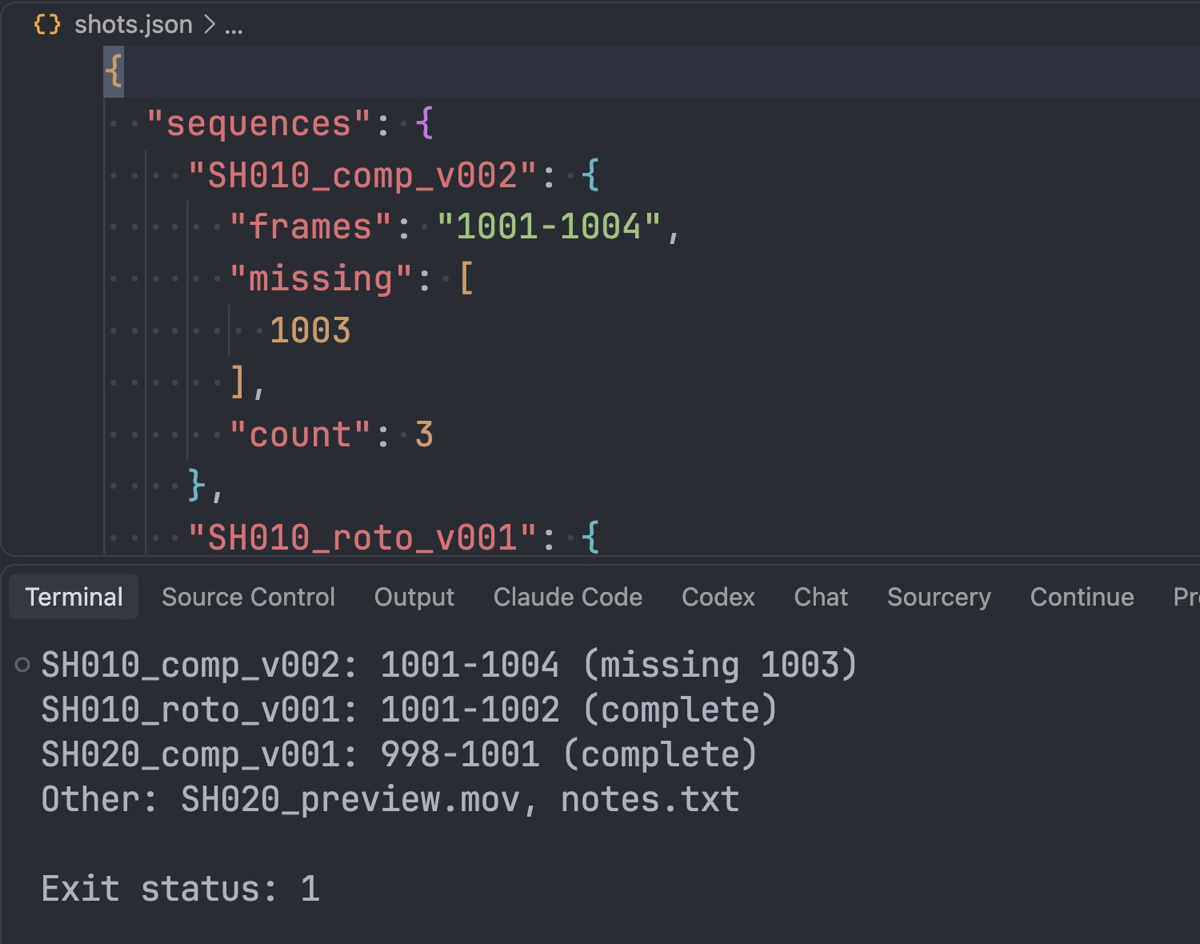
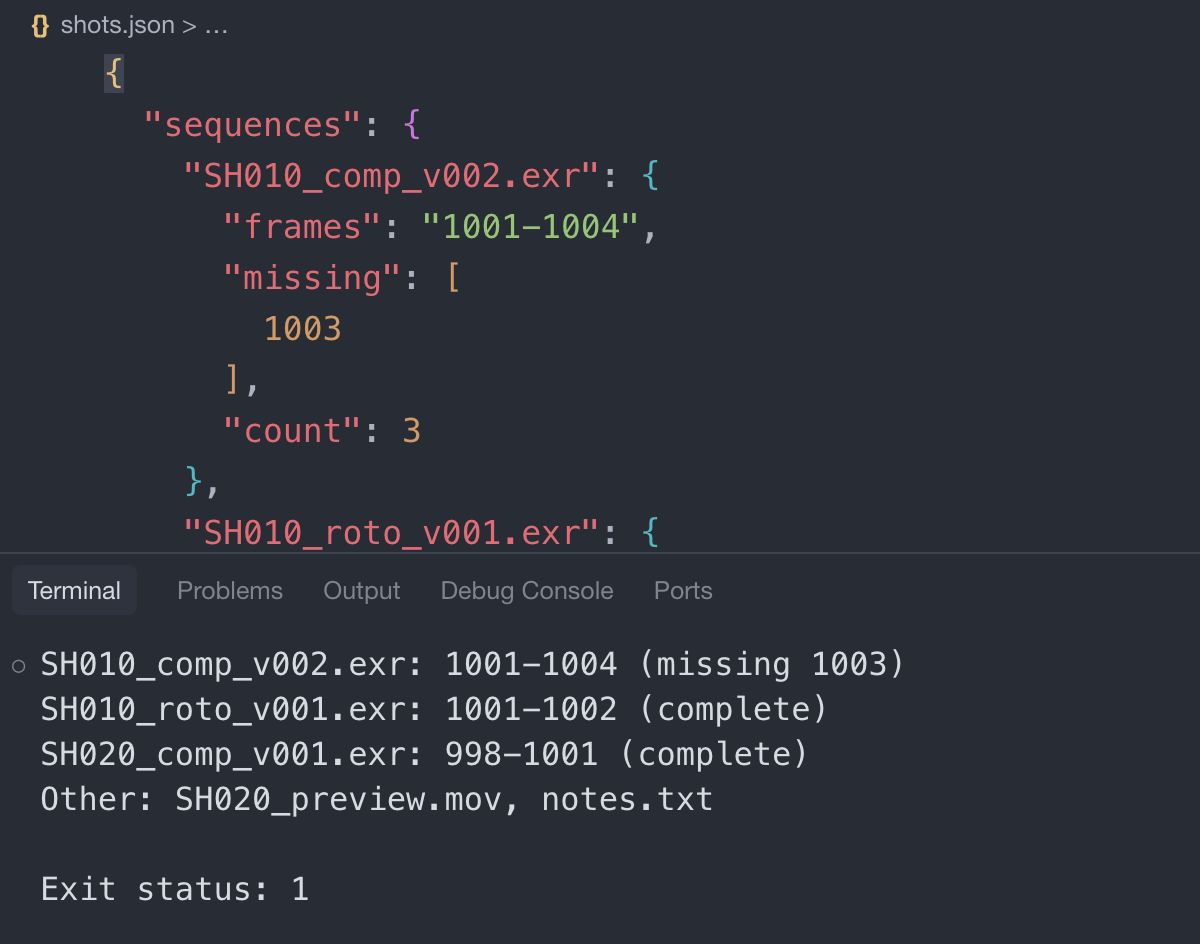
Module 0 v0.3.1

diff --git a/src/chapter_01/lesson_08.py b/src/chapter_01/lesson_08.py
@@ -2,5 +2,5 @@ from __future__ import annotations
 
 
 def group_by_sequence(names: list[str]) -> dict[str, list[int]]:
-    """Return each sequence with its sorted frames, each listed once; skip non-images and non-digit frames."""
+    """Return each image sequence with its sorted frames, each listed once; skip non-images and non-digit frames."""
     pass

diff --git a/src/chapter_01/lesson_12.py b/src/chapter_01/lesson_12.py
@@ -6,7 +6,7 @@ from typing import Any
 
 
 def inventory(folder: str) -> dict[str, Any]:
-    """Return the sequences (frames, missing, count) and other files directly inside folder."""
+    """Return the image sequences (frames, missing, count) and other files directly inside folder."""
     pass
 
 

diff --git a/docs/chapters/01-shot-inventory/08-grouping.md b/docs/chapters/01-shot-inventory/08-grouping.md
@@ -4,7 +4,7 @@ icon: lucide/book-open
 
 # Lesson 1.8 — Dictionaries: Grouping by Sequence
 
-The folder is one long list of names from several image sequences. To check each image sequence on its own, you first put the names into groups: all the `SH010_comp_v002` `.exr` frames together, all the `SH020_comp_v001` `.exr` frames together. A **dictionary** maps each image sequence's name, its **key**, to a list of its frames. [Lesson 1.3](03-splitting.md) wrote one out by hand; here a loop builds it.
+The folder is one long list of names from several image sequences. To check each image sequence on its own, you first put the names into groups: all the `SH010_comp_v002` `.exr` frames together, all the `SH020_comp_v001` `.exr` frames together. A **dictionary** maps each image sequence's **key**, its name plus its extension such as `SH010_comp_v002.exr`, to a list of its frames. [Lesson 1.3](03-splitting.md) wrote one out by hand; here a loop builds it.
 
 ## Building groups
 
@@ -35,7 +35,7 @@ The f-string from [Lesson 1.2](02-f-strings.md) puts the name back together with
 ```mermaid
 flowchart TD
     name["Next name"] --> split["sequence, frame, extension = name.rsplit('.', 2)"]
-    split --> key["key: the image sequence name, without the frame number"]
+    split --> key["key: name plus extension, without the frame number"]
     key --> check{"if key not in groups"}
     check -- "not in: first frame of this image sequence" --> start["groups[key] = []"]
     check -- "already in" --> append["groups[key].append(int(frame))"]
@@ -91,12 +91,12 @@ Open `src/chapter_01/lesson_08.py`.
 
 **`group_by_sequence(names)`** returns a dict from each image sequence's key, the file name without its frame number, to its frame numbers, sorted from smallest to largest.
 
-- Only frame images count: names that your [Lesson 1.3](03-splitting.md) `split_frame_name` accepts. Skip every other name, such as `notes.txt` and `SH020_preview.0001.mov`.
+Start from your [Lesson 1.3](03-splitting.md) function: `from chapter_01.lesson_03 import split_frame_name`. It returns `None` for a name to skip; otherwise, read `parts["sequence"]`, `parts["frame"]`, and `parts["extension"]`, which already starts with its dot. The rules:
+
+- Only frame images count: names that `split_frame_name` accepts. Skip every other name, such as `notes.txt` and `SH020_preview.0001.mov`.
 - Skip a name whose frame part isn't digits, such as `SH010_comp_v002.abcd.exr`.
 - Each extension is its own image sequence: `a.0007.exr` and `a.0007.dpx` give `{"a.exr": [7], "a.dpx": [7]}`. Keep the extension as written, so `A.0001.EXR` goes under `"A.EXR"`.
 - List each frame of an image sequence once, even when two names give the same frame, such as `a.0007.exr` and `a.7.exr`; a set from [Lesson 1.6](06-sets.md) removes repeats.
-
-You can reuse your [Lesson 1.3](03-splitting.md) function: `from chapter_01.lesson_03 import split_frame_name`. It returns `None` for a name to skip; otherwise, read `parts["sequence"]`, `parts["frame"]`, and `parts["extension"]`, which already starts with its dot.
 
 > Expected: `group_by_sequence(["SH010_comp_v002.1002.exr", "notes.txt", "SH010_comp_v002.1001.exr"])` → `{"SH010_comp_v002.exr": [1001, 1002]}`
 

diff --git a/docs/capstone.md b/docs/capstone.md
@@ -47,7 +47,7 @@ inventory("docs/chapters/01-shot-inventory/sample/dump")
 - `"frames"` is the range from the image sequence's first frame to its last, written as in [Lesson 1.7](chapters/01-shot-inventory/07-sorting.md).
 - `"missing"` lists the frames missing *between* the first and the last, sorted.
 - `"count"` is the number of distinct frames in the image sequence.
-- Every other file goes in `"other"`, sorted. Subfolders are skipped.
+- Every other file goes in `"other"`, sorted: names `split_frame_name` rejects, and names whose frame part isn't digits. Subfolders are skipped.
 
 **2. `report_lines(result)`** turns that dict into lines for a person, image sequences in sorted order, then the other files:
 
@@ -102,7 +102,7 @@ SH020_comp_v001.exr: 998-1001 (complete)
 Other: SH020_preview.mov, notes.txt
 ```
 
-![A completed Shot Inventory run in VS Code: shots.json above the terminal report, with frame 1003 missing from SH010_comp_v002.exr and exit code 1.](assets/shot-inventory-result.png)
+![A completed Shot Inventory run in an editor: shots.json above the terminal report, with frame 1003 missing from SH010_comp_v002.exr and exit code 1.](assets/shot-inventory-result.png)
 
 The screenshot shows a completed implementation. The terminal report is for a person; `shots.json` stores the same facts for another program. Frame `1003` appears in both as missing. The exit code is `1` because the tool found missing frames, not because it failed to run.
 

diff --git a/docs/chapters/01-shot-inventory/README.md b/docs/chapters/01-shot-inventory/README.md
@@ -10,10 +10,10 @@ A visual-effects studio produces thousands of image files a day, and their names
 2. [Building Names with f-strings](02-f-strings.md) — build a frame filename from its parts, with padding.
 3. [Splitting a Name into Parts](03-splitting.md) — split a filename into its parts again with string methods.
 4. [Numbers from Text](04-numbers.md) — turn `"1001"` and `"v002"` into numbers you can calculate with.
-5. [Frame Ranges and List Comprehensions](05-ranges.md) — list every frame a sequence should have.
+5. [Frame Ranges and List Comprehensions](05-ranges.md) — list every frame an image sequence should have.
 6. [Sets: Finding Missing Frames](06-sets.md) — compare what should be there with what is.
 7. [Sorting Frames as Numbers](07-sorting.md) — put frames in order, and write a range as `1001-1004`.
-8. [Dictionaries: Grouping by Sequence](08-grouping.md) — put a mixed list of names into groups, one per sequence.
+8. [Dictionaries: Grouping by Sequence](08-grouping.md) — put a mixed list of names into groups, one per image sequence.
 9. [Listing a Folder with `os`](09-folders.md) — read real filenames from a folder.
 10. [JSON as Memory](10-json.md) — save results in a file that people and programs can read.
 11. [A Script You Can Run](11-script.md) — turn functions into a command.

diff --git a/docs/glossary.md b/docs/glossary.md
@@ -36,7 +36,7 @@ Writing a frame number with at least a fixed number of digits, filled with leadi
 
 ### Image sequence
 
-All the frames of one shot, task, and version in one file type. The part of a frame's name before the dot and frame number, such as `SH010_comp_v002`, is its name; the extension gives the type, so `.exr` and `.dpx` frames with the same name are two image sequences, and so are `.exr` and `.EXR`. Lesson 1.8 keys each one by its name plus its extension, such as `SH010_comp_v002.exr`. In a studio, "sequence" alone usually means a group of shots, so this course says "image sequence". [Names Carry Data](chapters/01-shot-inventory/01-names-carry-data.md)
+All the frames of one shot, task, and version in one file type. The part of a frame's name before the dot and frame number, such as `SH010_comp_v002`, is its name; the extension gives the type, so `.exr` and `.dpx` frames with the same name are two image sequences, and so are `.exr` and `.EXR`, because the extension counts as written. [Lesson 1.8](chapters/01-shot-inventory/08-grouping.md) keys each one by its name plus its extension, such as `SH010_comp_v002.exr`. In a studio, "sequence" alone usually means a group of shots, so this course says "image sequence". [Names Carry Data](chapters/01-shot-inventory/01-names-carry-data.md)
 
 ### JSON
 

diff --git a/README.md b/README.md
@@ -2,7 +2,7 @@
 
 A free, self-paced introduction to [M74 Academy](https://github.com/m74-academy): eleven short lessons that teach the Python behind a small visual-effects tool, and a project where you build it. You read a lesson, write a function, and run a check that tells you whether it works. That loop is how M74 Academy lessons work; Module 0 lets you try it on your own computer, with no instructor and no deadline.
 
-**What you build:** *Shot Inventory*, a script that looks at a messy folder of image frames from several shots, groups the files into sequences, finds the frames that are missing, prints a report, and saves it as JSON. It reads the folder and never changes it.
+**What you build:** *Shot Inventory*, a script that looks at a messy folder of image frames from several shots, groups the files into image sequences, finds the frames that are missing, prints a report, and saves it as JSON. It reads the folder and never changes it.
 
 **What you need:** a computer with macOS, Windows, or Linux; a free [GitHub account](https://github.com/signup); and some Python basics: variables, `if`, `for`, lists, and functions. No visual-effects experience.
 

diff --git a/CHANGELOG.md b/CHANGELOG.md
@@ -5,6 +5,15 @@ What changed in each release of Module 0. Get a new release with the steps in
 
 ## [Unreleased]
 
+## [0.3.1] — 2026-10-12
+
+### Changed
+
+- The capstone screenshot shows the current report keys, with the extension (`SH010_comp_v002.exr`).
+- Lesson 1.8's assignment points to your Lesson 1.3 `split_frame_name` before the rules, not after them.
+- The capstone says which files go in `"other"`: names `split_frame_name` rejects and names whose frame part isn't digits. Nothing to redo.
+- Lesson 1.10, the glossary, and the chapter and module READMEs use the image sequence key with its extension and say *image sequence*.
+
 ## [0.3.0] — 2026-10-12
 
 ### Added

diff --git a/docs/chapters/01-shot-inventory/10-json.md b/docs/chapters/01-shot-inventory/10-json.md
@@ -36,7 +36,7 @@ True
 
 !!! question "Think"
 
-    Two scripts look for missing frames. One takes the number after the word `missing` in the terminal line `SH010_comp_v002: 1001-1004 (missing 1003)`. The other loads the JSON. Then the report wording changes to `(1003 missing)`. Which script breaks, and why?
+    Two scripts look for missing frames. One takes the number after the word `missing` in the terminal line `SH010_comp_v002.exr: 1001-1004 (missing 1003)`. The other loads the JSON. Then the report wording changes to `(1003 missing)`. Which script breaks, and why?
 
 ??? success "Answer"
 
